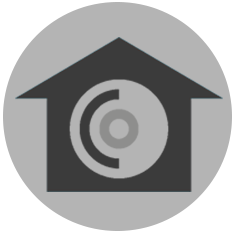
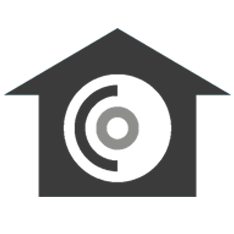
thay lại hình service - add màu background

diff --git a/index-vn.html b/index-vn.html
@@ -257,7 +257,7 @@
         <div class="container pad-bot">
           <div class="team-members">
             <div class="col-xs-12 col-sm-6 col-lg-3 smxs-margin animated-slide-left">
-              <div class="block-inner">
+              <div class="block-inner" style=" background-color: #b4b4b4; ">
                 <div class="team-img">
                   <img src="images/service-construction.png" alt="team" />
                   <div class="overlay-img text-center">
@@ -274,7 +274,7 @@
               </div>
             </div>
             <div class="col-xs-12 col-sm-6 col-lg-3 smxs-margin animated-scale-up">
-              <div class="block-inner">
+              <div class="block-inner" style=" background-color: #b4b4b4; ">
                 <div class="team-img">
                   <img src="images/service-identity.png" alt="team" />
                   <div class="overlay-img text-center">
@@ -291,7 +291,7 @@
               </div>
             </div>
             <div class="col-xs-12 col-sm-6 col-lg-3 smxs-margin animated-slide-right">
-              <div class="block-inner">
+              <div class="block-inner" style=" background-color: #b4b4b4; ">
                 <div class="team-img">
                   <img src="images/service-3d.png" alt="team" />
                   <div class="overlay-img text-center">
@@ -308,7 +308,7 @@
               </div>
             </div>
             <div class="col-xs-12 col-sm-6 col-lg-3 smxs-margin animated-slide-right">
-              <div class="block-inner">
+              <div class="block-inner" style=" background-color: #b4b4b4; ">
                 <div class="team-img">
 
                   <img src="images/service-smart-house.png" alt="team" />
